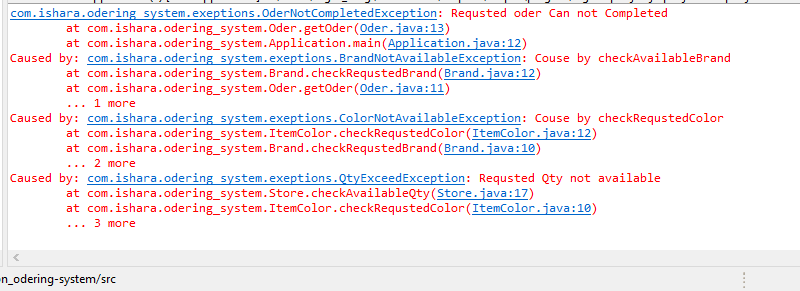
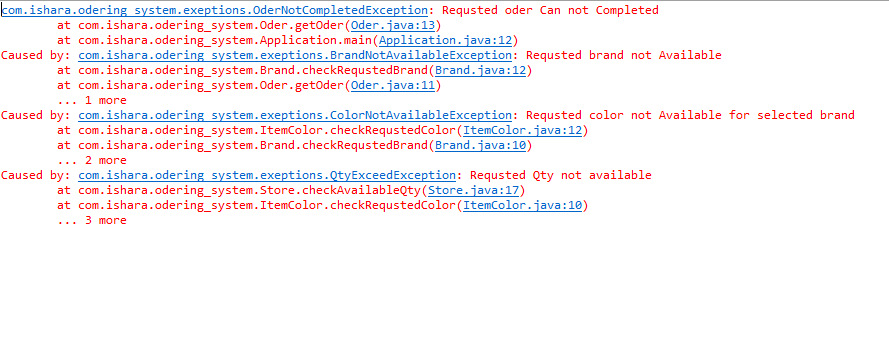
corrections

Changed region(s): [[0.0, 0.0, 1.0, 0.8041], [0.0, 0.866, 1.0, 0.9897]]

diff --git a/Exception/odering-system/src/com/ishara/odering_system/ItemColor.java b/Exception/odering-system/src/com/ishara/odering_system/ItemColor.java
@@ -9,7 +9,7 @@ public class ItemColor {
             Store requstedQty = new Store();
             requstedQty.checkAvailableQty();            
         } catch (QtyExceedException e) {
-            throw new ColorNotAvailableException("Couse by checkRequstedColor" , e); 
+            throw new ColorNotAvailableException("Requsted color not Available for selected brand" , e); 
         } 
     }
 }

diff --git a/Exception/odering-system/src/com/ishara/odering_system/Brand.java b/Exception/odering-system/src/com/ishara/odering_system/Brand.java
@@ -9,7 +9,7 @@ public class Brand {
             ItemColor itemColor = new ItemColor();
             itemColor.checkRequstedColor();
         } catch (ColorNotAvailableException e) {
-            throw new BrandNotAvailableException("Couse by checkAvailableBrand" , e); 
+            throw new BrandNotAvailableException("Requsted brand not Available" , e); 
         }
 
     } 
